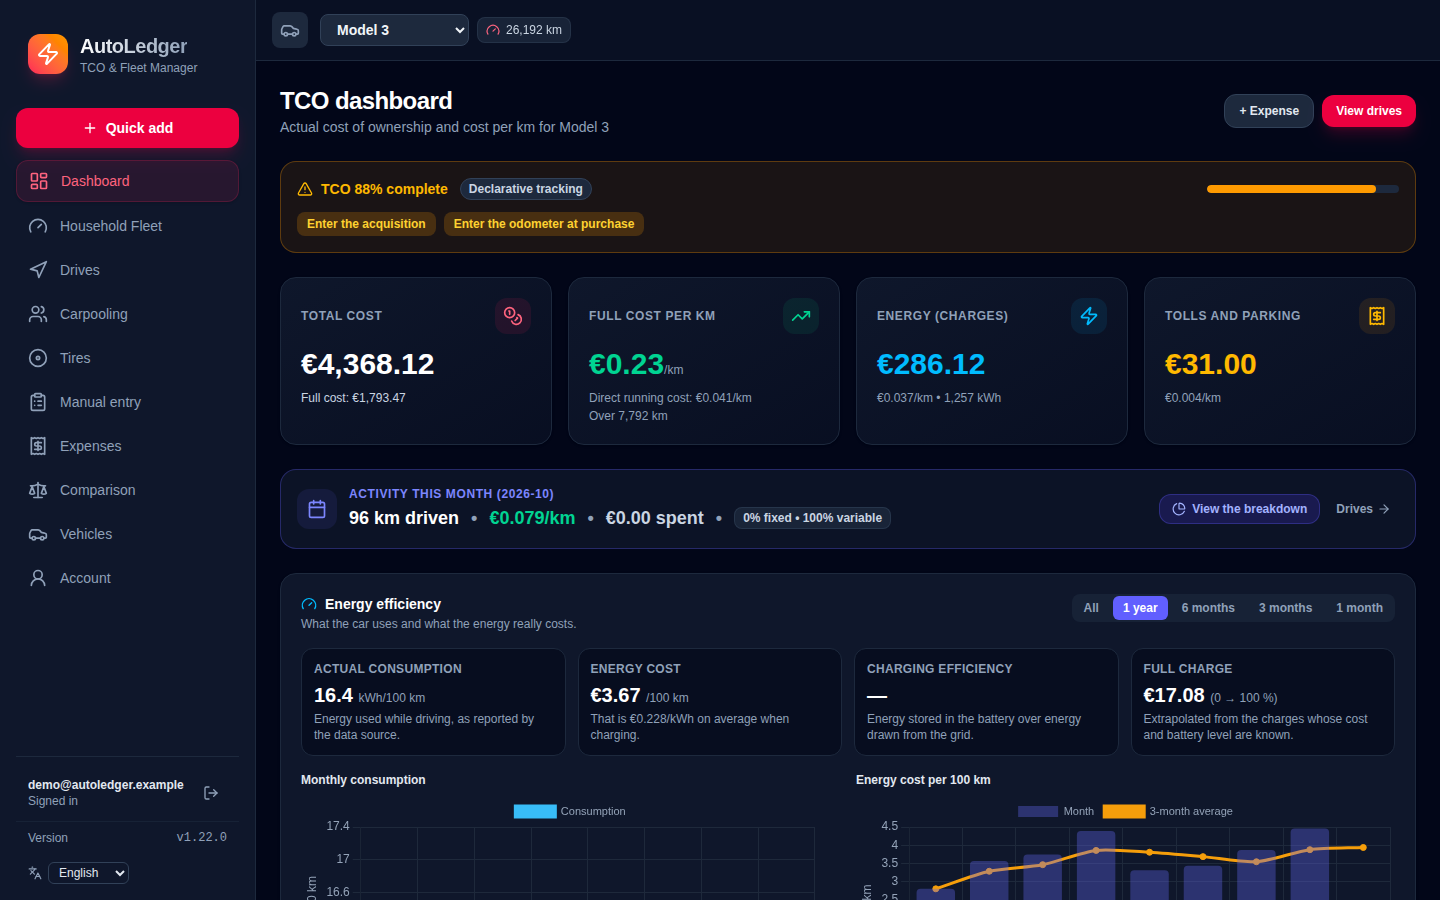
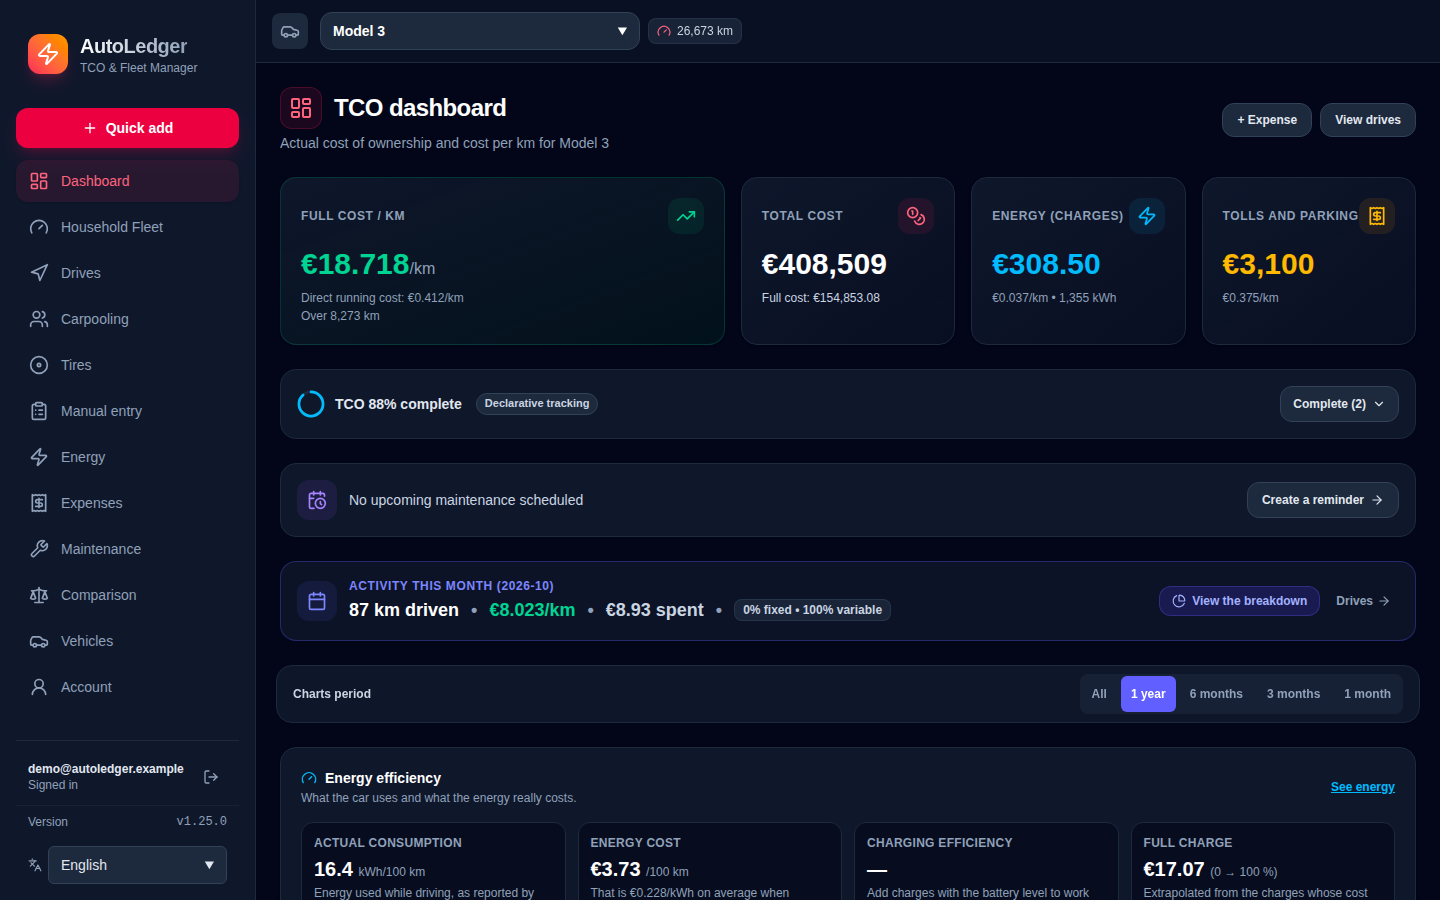
Regrouper le suivi de l'énergie dans une page Énergie
Efficacité, Recharges et Estimation passent sur /energy ; anciens liens
redirigés, dashboard conservé comme résumé, captures de la doc régénérées.

diff --git a/web/src/views/ExpensesView.vue b/web/src/views/ExpensesView.vue
@@ -13,6 +13,8 @@ import TollsPanel from '@/components/expenses/TollsPanel.vue'
 import MaintenancePanel from '@/components/expenses/MaintenancePanel.vue'
 import RemindersPanel from '@/components/expenses/RemindersPanel.vue'
 import ChargesPanel from '@/components/expenses/ChargesPanel.vue'
+import EnergyEfficiencyPanel from '@/components/dashboard/EnergyEfficiencyPanel.vue'
+import EstimatedEnergyPanel from '@/components/manual/EstimatedEnergyPanel.vue'
 import DocumentsPanel from '@/components/expenses/DocumentsPanel.vue'
 import TollModal from '@/components/expenses/TollModal.vue'
 import MaintenanceModal from '@/components/expenses/MaintenanceModal.vue'
@@ -23,7 +25,7 @@ import CompleteReminderModal from '@/components/expenses/CompleteReminderModal.v
 import WebhookModal from '@/components/expenses/WebhookModal.vue'
 import CSVImportModal from '@/components/CSVImportModal.vue'
 import QualifyChargesModal from '@/components/expenses/QualifyChargesModal.vue'
-import { Receipt, Plus, Wrench, Zap, Paperclip, Eye, Bell, Radio, UploadCloud } from 'lucide-vue-next'
+import { Receipt, Plus, Wrench, Zap, Gauge, Calculator, Paperclip, Eye, Bell, Radio, UploadCloud } from 'lucide-vue-next'
 import type { ReminderPreset } from '@/utils/expenses'
 import { hasReminderSchedule } from '@/utils/expenses'
 import { formatAmount } from '@/currency'
@@ -39,13 +41,17 @@ const vehicleId = computed(() => vehicleStore.activeVehicle?.id ?? '')
 const currentOdometer = computed(() => vehicleStore.activeVehicle?.current_odometer || 0)
 const { previewDoc, loadingDocId, closeDocPreview, viewOrDownloadDocument } = useDocumentPreview(() => vehicleStore.activeVehicle?.id)
 
-type TabType = 'TOLLS' | 'MAINTENANCE' | 'REMINDERS' | 'CHARGES' | 'DOCUMENTS'
+type TabType = 'TOLLS' | 'MAINTENANCE' | 'REMINDERS' | 'CHARGES' | 'DOCUMENTS' | 'EFFICIENCY' | 'ESTIMATE'
 
-// One view, two menu entries: /expenses (tolls, charges, receipts) and /maintenance (maintenance, reminders)
+// One view, three menu entries: /expenses (tolls, receipts), /maintenance (maintenance, reminders)
+// and /energy (efficiency, charges, estimate)
 const isMaintenanceSection = computed(() => route.meta.section === 'maintenance')
-const sectionTabs = computed<TabType[]>(() =>
-  isMaintenanceSection.value ? ['MAINTENANCE', 'REMINDERS'] : ['TOLLS', 'CHARGES', 'DOCUMENTS'],
-)
+const isEnergySection = computed(() => route.meta.section === 'energy')
+const sectionTabs = computed<TabType[]>(() => {
+  if (isMaintenanceSection.value) return ['MAINTENANCE', 'REMINDERS']
+  if (isEnergySection.value) return vehicleStore.canRefuel ? ['EFFICIENCY', 'CHARGES'] : ['EFFICIENCY', 'CHARGES', 'ESTIMATE']
+  return ['TOLLS', 'DOCUMENTS']
+})
 
 function parseTab(raw: unknown): TabType {
   const upper = String(Array.isArray(raw) ? raw[0] : (raw ?? '')).toUpperCase() as TabType
@@ -55,8 +61,8 @@ function parseTab(raw: unknown): TabType {
 const activeTab = ref<TabType>(parseTab(route.query.tab))
 
 // A fuel-only vehicle has no charges: its fill-ups live in the manual tracking page
-watch([() => vehicleStore.canCharge, activeTab], ([charges, tab]) => {
-  if (!charges && tab === 'CHARGES') router.replace('/manual?tab=FUEL')
+watch([() => vehicleStore.canCharge, isEnergySection], ([charges, energy]) => {
+  if (!charges && energy) router.replace('/manual?tab=FUEL')
 }, { immediate: true })
 
 watch(activeTab, (newTab) => {
@@ -65,7 +71,7 @@ watch(activeTab, (newTab) => {
   }
 })
 
-watch([() => route.query.tab, isMaintenanceSection], ([qTab]) => {
+watch([() => route.query.tab, () => route.meta.section, () => vehicleStore.canRefuel], ([qTab]) => {
   const tab = parseTab(qTab)
   if (activeTab.value !== tab) activeTab.value = tab
 })
@@ -401,8 +407,10 @@ async function openWebhookModal() {
   showWebhookModal.value = true
 }
 
-const pageTitle = computed(() => t(isMaintenanceSection.value ? 'expenses.expensesView.maintenanceTitle' : 'expenses.expensesView.expensesTitle'))
-const pageSubtitle = computed(() => t(isMaintenanceSection.value ? 'expenses.expensesView.maintenanceSubtitle' : 'expenses.expensesView.expensesSubtitle'))
+const sectionKey = computed(() => (isMaintenanceSection.value ? 'maintenance' : isEnergySection.value ? 'energy' : 'expenses'))
+const pageTitle = computed(() => t(`expenses.expensesView.${sectionKey.value}Title`))
+const pageSubtitle = computed(() => t(`expenses.expensesView.${sectionKey.value}Subtitle`))
+const pageIcon = computed(() => (isMaintenanceSection.value ? Wrench : isEnergySection.value ? Zap : Receipt))
 
 const tabs = computed<TabItem[]>(() => {
   if (isMaintenanceSection.value) {
@@ -417,16 +425,21 @@ const tabs = computed<TabItem[]>(() => {
       },
     ]
   }
-  const list: TabItem[] = [{ key: 'TOLLS', label: t('expenses.expensesView.tolls'), icon: Receipt }]
-  if (vehicleStore.canCharge) {
-    list.push({
-      key: 'CHARGES',
-      label: t('expenses.expensesView.charges'),
-      icon: Zap,
-      badge: chargesWithoutCost.value > 0 ? chargesWithoutCost.value : undefined,
-      badgeTone: 'warning',
-    })
+  if (isEnergySection.value) {
+    const list: TabItem[] = [
+      { key: 'EFFICIENCY', label: t('expenses.expensesView.efficiency'), icon: Gauge },
+      {
+        key: 'CHARGES',
+        label: t('expenses.expensesView.charges'),
+        icon: Zap,
+        badge: chargesWithoutCost.value > 0 ? chargesWithoutCost.value : undefined,
+        badgeTone: 'warning',
+      },
+    ]
+    if (!vehicleStore.canRefuel) list.push({ key: 'ESTIMATE', label: t('expenses.expensesView.estimate'), icon: Calculator })
+    return list
   }
+  const list: TabItem[] = [{ key: 'TOLLS', label: t('expenses.expensesView.tolls'), icon: Receipt }]
   list.push({
     key: 'DOCUMENTS',
     label: t('expenses.expensesView.receipts'),
@@ -440,7 +453,7 @@ const tabs = computed<TabItem[]>(() => {
 <template>
   <div class="space-y-6">
     <!-- Header -->
-    <PageHeader :title="pageTitle" :icon="isMaintenanceSection ? Wrench : Receipt">
+    <PageHeader :title="pageTitle" :icon="pageIcon">
       {{ pageSubtitle }}
       <template #actions>
       <div v-if="vehicleStore.canEdit" class="flex items-center gap-2">
@@ -572,6 +585,20 @@ const tabs = computed<TabItem[]>(() => {
         {{ $t('pendingCharges.qualifyButton') }}
       </button>
     </div>
+
+    <EnergyEfficiencyPanel
+      v-if="activeTab === 'EFFICIENCY' && vehicleStore.activeVehicle"
+      :vehicle-id="vehicleStore.activeVehicle.id"
+      :grafana-url="vehicleStore.activeVehicle.teslamate_grafana_url"
+      :sync-key="vehicleStore.lastSyncTimestamp"
+      show-empty
+    />
+
+    <EstimatedEnergyPanel
+      v-if="activeTab === 'ESTIMATE' && vehicleStore.activeVehicle"
+      :vehicle="vehicleStore.activeVehicle"
+      :can-edit="vehicleStore.canEdit"
+    />
 
     <ChargesPanel
       v-if="activeTab === 'CHARGES' && vehicleStore.canCharge"

diff --git a/web/src/views/ManualTrackingView.vue b/web/src/views/ManualTrackingView.vue
@@ -5,15 +5,14 @@ import { ClipboardList as PageIcon } from 'lucide-vue-next'
 import { t } from '@/i18n'
 import { ref, computed, watch } from 'vue'
 import { useRoute, useRouter } from 'vue-router'
-import { Gauge, Fuel, Zap, UploadCloud, Download } from 'lucide-vue-next'
+import { Gauge, Fuel, UploadCloud, Download } from 'lucide-vue-next'
 import { useVehicleStore } from '@/stores/vehicle'
 import OdometerReadingsPanel from '@/components/manual/OdometerReadingsPanel.vue'
 import FuelLogsPanel from '@/components/manual/FuelLogsPanel.vue'
 import CSVImportModal from '@/components/CSVImportModal.vue'
 import ExportDataModal from '@/components/ExportDataModal.vue'
-import EstimatedEnergyPanel from '@/components/manual/EstimatedEnergyPanel.vue'
 
-type Tab = 'KM' | 'FUEL' | 'ENERGY'
+type Tab = 'KM' | 'FUEL'
 
 const showImport = ref(false)
 const showExport = ref(false)
@@ -31,7 +30,6 @@ const vehicleStore = useVehicleStore()
 const tabs = computed<TabItem[]>(() => {
   const list: TabItem[] = [{ key: 'KM', label: t('manual.manualTrackingView.mileage'), icon: Gauge }]
   if (vehicleStore.canRefuel) list.push({ key: 'FUEL', label: t('manual.manualTrackingView.energyTab'), icon: Fuel })
-  else list.push({ key: 'ENERGY', label: t('manual.manualTrackingView.energyTab'), icon: Zap })
   return list
 })
 
@@ -62,7 +60,7 @@ function select(tab: Tab) {
 <template>
   <div class="space-y-5">
     <PageHeader :title="$t('manual.manualTrackingView.manualTracking')" :icon="PageIcon">
-      {{ $t('manual.manualTrackingView.subtitle', { what: vehicleStore.canRefuel ? $t('manual.manualTrackingView.fillUps') : $t('manual.manualTrackingView.energy') }) }}{{ vehicleStore.activeVehicle ? ` · ${vehicleStore.activeVehicle.name}` : '' }}{{ $t('manual.manualTrackingView.independent') }}
+      {{ vehicleStore.canRefuel ? $t('manual.manualTrackingView.subtitle', { what: $t('manual.manualTrackingView.fillUps') }) : $t('manual.manualTrackingView.subtitleMileage') }}{{ vehicleStore.activeVehicle ? ` · ${vehicleStore.activeVehicle.name}` : '' }}{{ $t('manual.manualTrackingView.independent') }}
     </PageHeader>
 
     <div v-if="!vehicleStore.activeVehicle" class="bg-slate-900 border border-slate-800 rounded-2xl p-6 text-sm text-slate-400">
@@ -73,7 +71,7 @@ function select(tab: Tab) {
       <div class="flex justify-end">
         <div class="flex items-center gap-2">
           <button
-            v-if="vehicleStore.canEdit && activeTab !== 'ENERGY'"
+            v-if="vehicleStore.canEdit"
             type="button"
             class="tap-text flex items-center gap-1.5 px-3 rounded-xl border border-slate-700 bg-slate-800 hover:bg-slate-700 text-xs font-semibold text-slate-200"
             @click="showImport = true"
@@ -91,7 +89,7 @@ function select(tab: Tab) {
           </button>
         </div>
       </div>
-      <TabBar :model-value="activeTab" :tabs="tabs" :label="$t('manual.manualTrackingView.manualTracking')" id-prefix="manual-tab" @update:model-value="select($event as Tab)" />
+      <TabBar v-if="tabs.length > 1" :model-value="activeTab" :tabs="tabs" :label="$t('manual.manualTrackingView.manualTracking')" id-prefix="manual-tab" @update:model-value="select($event as Tab)" />
 
       <OdometerReadingsPanel v-if="activeTab === 'KM'" :key="reloadKey" :vehicle="vehicleStore.activeVehicle" :can-edit="vehicleStore.canEdit" />
       <FuelLogsPanel
@@ -100,7 +98,6 @@ function select(tab: Tab) {
         :vehicle-id="vehicleStore.activeVehicle.id"
         :can-edit="vehicleStore.canEdit"
       />
-      <EstimatedEnergyPanel v-else-if="activeTab === 'ENERGY'" :vehicle="vehicleStore.activeVehicle" :can-edit="vehicleStore.canEdit" />
       <ExportDataModal v-model:open="showExport" :vehicle-id="vehicleStore.activeVehicle.id" />
       <CSVImportModal
         v-model:open="showImport"

diff --git a/web/src/components/dashboard/EnergyEfficiencyPanel.vue b/web/src/components/dashboard/EnergyEfficiencyPanel.vue
@@ -22,6 +22,9 @@ const props = defineProps<{
   grafanaUrl?: string | null
   // Bumped after a synchronization so the figures follow the imported drives and charges
   syncKey?: number
+  // Dashboard: link to the energy page. Energy page: explain why the panel is empty.
+  showLink?: boolean
+  showEmpty?: boolean
 }>()
 
 const vehicleStore = useVehicleStore()
@@ -175,7 +178,10 @@ onBeforeUnmount(() => {
 </script>
 
 <template>
-  <section v-if="hasData" class="space-y-4 rounded-2xl border border-slate-800 bg-slate-900 p-5 shadow-sm" aria-labelledby="energy-efficiency-title">
+  <section v-if="!hasData && showEmpty" class="rounded-2xl border border-slate-800 bg-slate-900 p-5 text-sm text-slate-400">
+    {{ $t('dashboard.energyEfficiencyPanel.noData') }}
+  </section>
+  <section v-else-if="hasData" class="space-y-4 rounded-2xl border border-slate-800 bg-slate-900 p-5 shadow-sm" aria-labelledby="energy-efficiency-title">
     <div class="flex flex-col justify-between gap-2 sm:flex-row sm:items-center">
       <div>
         <h3 id="energy-efficiency-title" class="flex items-center gap-2 text-sm font-bold text-white">
@@ -184,6 +190,9 @@ onBeforeUnmount(() => {
         </h3>
         <p class="mt-0.5 text-xs text-slate-400">{{ $t('dashboard.energyEfficiencyPanel.whatTheCarUsesAnd') }}</p>
       </div>
+      <router-link v-if="showLink" to="/energy" class="tap-text text-xs font-semibold text-sky-400 underline">
+        {{ $t('dashboard.energyEfficiencyPanel.seeEnergy') }}
+      </router-link>
     </div>
 
     <dl class="grid grid-cols-2 gap-3 lg:grid-cols-4">
@@ -202,7 +211,7 @@ onBeforeUnmount(() => {
         <dd class="mt-1 text-xl font-bold text-white">{{ fmtPercent(stats?.summary.charge_efficiency) }}</dd>
         <p v-if="stats?.summary.charge_efficiency == null" class="mt-0.5 text-xs text-slate-400">
           {{ $t('dashboard.energyEfficiencyPanel.chargingEfficiencyEmpty') }}
-          <router-link to="/expenses?tab=CHARGES" class="font-semibold text-sky-400 underline">{{ $t('dashboard.energyEfficiencyPanel.chargingEfficiencyAction') }}</router-link>
+          <router-link to="/energy?tab=CHARGES" class="font-semibold text-sky-400 underline">{{ $t('dashboard.energyEfficiencyPanel.chargingEfficiencyAction') }}</router-link>
         </p>
         <p v-else class="mt-0.5 hidden text-xs text-slate-400 sm:block">{{ $t('dashboard.energyEfficiencyPanel.energyStoredInTheBattery') }}</p>
       </div>
@@ -215,7 +224,7 @@ onBeforeUnmount(() => {
 
     <p v-if="(stats?.summary.sessions_without_cost ?? 0) > 0" class="rounded-lg border border-warning-500/20 bg-warning-500/10 px-3 py-2 text-xs text-warning-300">
       {{ $t('dashboard.energyEfficiencyPanel.chargeSWithoutAKnown', { unit: distanceUnit(), sessions_without_cost: stats?.summary.sessions_without_cost }) }}
-      <router-link to="/expenses?tab=CHARGES" class="font-semibold underline">{{ $t('dashboard.energyEfficiencyPanel.completeThem') }}</router-link>
+      <router-link to="/energy?tab=CHARGES" class="font-semibold underline">{{ $t('dashboard.energyEfficiencyPanel.completeThem') }}</router-link>
     </p>
 
     <p v-if="hasDerived" class="rounded-lg border border-info-500/20 bg-info-500/10 px-3 py-2 text-xs text-info-300">

diff --git a/web/src/router/index.ts b/web/src/router/index.ts
@@ -48,6 +48,10 @@ const router = createRouter({
       name: 'manual',
       component: ManualTrackingView,
       meta: { requiresAuth: true },
+      // The energy estimate of electric vehicles lives on the energy page
+      beforeEnter: (to) => {
+        if (String(to.query.tab ?? '').toUpperCase() === 'ENERGY') return { path: '/energy', query: { tab: 'ESTIMATE' }, replace: true }
+      },
     },
     {
       path: '/comparison',
@@ -70,6 +74,7 @@ const router = createRouter({
       beforeEnter: (to) => {
         const tab = String(to.query.tab ?? '').toUpperCase()
         if (tab === 'MAINTENANCE' || tab === 'REMINDERS') return { name: 'maintenance', query: to.query, replace: true }
+        if (tab === 'CHARGES') return { name: 'energy', query: to.query, replace: true }
       },
     },
     {
@@ -79,8 +84,15 @@ const router = createRouter({
       meta: { requiresAuth: true, section: 'maintenance' },
       beforeEnter: (to) => {
         const tab = String(to.query.tab ?? '').toUpperCase()
-        if (['TOLLS', 'CHARGES', 'DOCUMENTS'].includes(tab)) return { name: 'expenses', query: to.query, replace: true }
+        if (['TOLLS', 'DOCUMENTS'].includes(tab)) return { name: 'expenses', query: to.query, replace: true }
+        if (['CHARGES', 'EFFICIENCY', 'ESTIMATE'].includes(tab)) return { name: 'energy', query: to.query, replace: true }
       },
+    },
+    {
+      path: '/energy',
+      name: 'energy',
+      component: ExpensesView,
+      meta: { requiresAuth: true, section: 'energy' },
     },
     {
       path: '/vehicles',

diff --git a/web/src/components/Navigation.vue b/web/src/components/Navigation.vue
@@ -39,6 +39,7 @@ const allNavItems = [
   { name: 'carpools', labelKey: 'shell.nav.carpools', path: '/carpools', icon: Users },
   { name: 'tires', labelKey: 'shell.nav.tires', path: '/tires', icon: Disc },
   { name: 'manual', labelKey: 'shell.nav.manual', path: '/manual', icon: ClipboardList },
+  { name: 'energy', labelKey: 'shell.nav.energy', path: '/energy', icon: Zap },
   { name: 'expenses', labelKey: 'shell.nav.expenses', path: '/expenses', icon: Receipt },
   { name: 'maintenance', labelKey: 'shell.nav.maintenance', path: '/maintenance', icon: Wrench },
   { name: 'comparison', labelKey: 'shell.nav.comparison', path: '/comparison', icon: Scale },
@@ -51,6 +52,7 @@ const navItems = computed(() =>
   allNavItems.filter((item) => {
     if (item.name === 'drives') return vehicleStore.canCharge
     if (item.name === 'carpools') return vehicleStore.canCharge
+    if (item.name === 'energy') return vehicleStore.canCharge
     return true
   }),
 )

diff --git a/web/src/components/dashboard/DataQualityCard.vue b/web/src/components/dashboard/DataQualityCard.vue
@@ -49,7 +49,7 @@ const actions = computed<Action[]>(() => {
   const c = props.tco?.completeness
   if (!c) return []
   const list: (Action & { show: boolean })[] = [
-    { key: 'charges', to: '/expenses?tab=CHARGES', label: t('dashboard.dataQualityCard.completeTheCharges'), show: c.charges_without_cost > 0 },
+    { key: 'charges', to: '/energy?tab=CHARGES', label: t('dashboard.dataQualityCard.completeTheCharges'), show: c.charges_without_cost > 0 },
     { key: 'drives', to: '/drives', label: t('dashboard.dataQualityCard.qualifyTheDrives'), show: c.unqualified_drives > 0 },
     { key: 'insurance', to: '/maintenance', label: t('dashboard.dataQualityCard.enterTheInsurance'), show: !!c.insurance_missing },
     { key: 'acquisition', to: '/vehicles', label: t('dashboard.dataQualityCard.enterTheAcquisition'), show: !!c.acquisition_missing },

diff --git a/web/src/components/manual/EstimatedEnergyPanel.vue b/web/src/components/manual/EstimatedEnergyPanel.vue
@@ -184,7 +184,7 @@ onMounted(() => {
       <button
         type="button"
         class="shrink-0 px-3 py-2 bg-slate-800 hover:bg-slate-700 text-slate-200 border border-slate-700 font-semibold rounded-xl"
-        @click="router.push('/expenses?tab=CHARGES')"
+        @click="router.push('/energy?tab=CHARGES')"
       >
         {{ $t('manual.estimatedEnergyPanel.chargesOutsideTeslamate') }}
       </button>

diff --git a/web/src/views/DashboardView.vue b/web/src/views/DashboardView.vue
@@ -169,6 +169,7 @@ onMounted(() => {
         :vehicle-id="vehicleStore.activeVehicle.id"
         :grafana-url="vehicleStore.activeVehicle.teslamate_grafana_url"
         :sync-key="vehicleStore.lastSyncTimestamp"
+        show-link
       />
 
       <ResidualValuePanel
